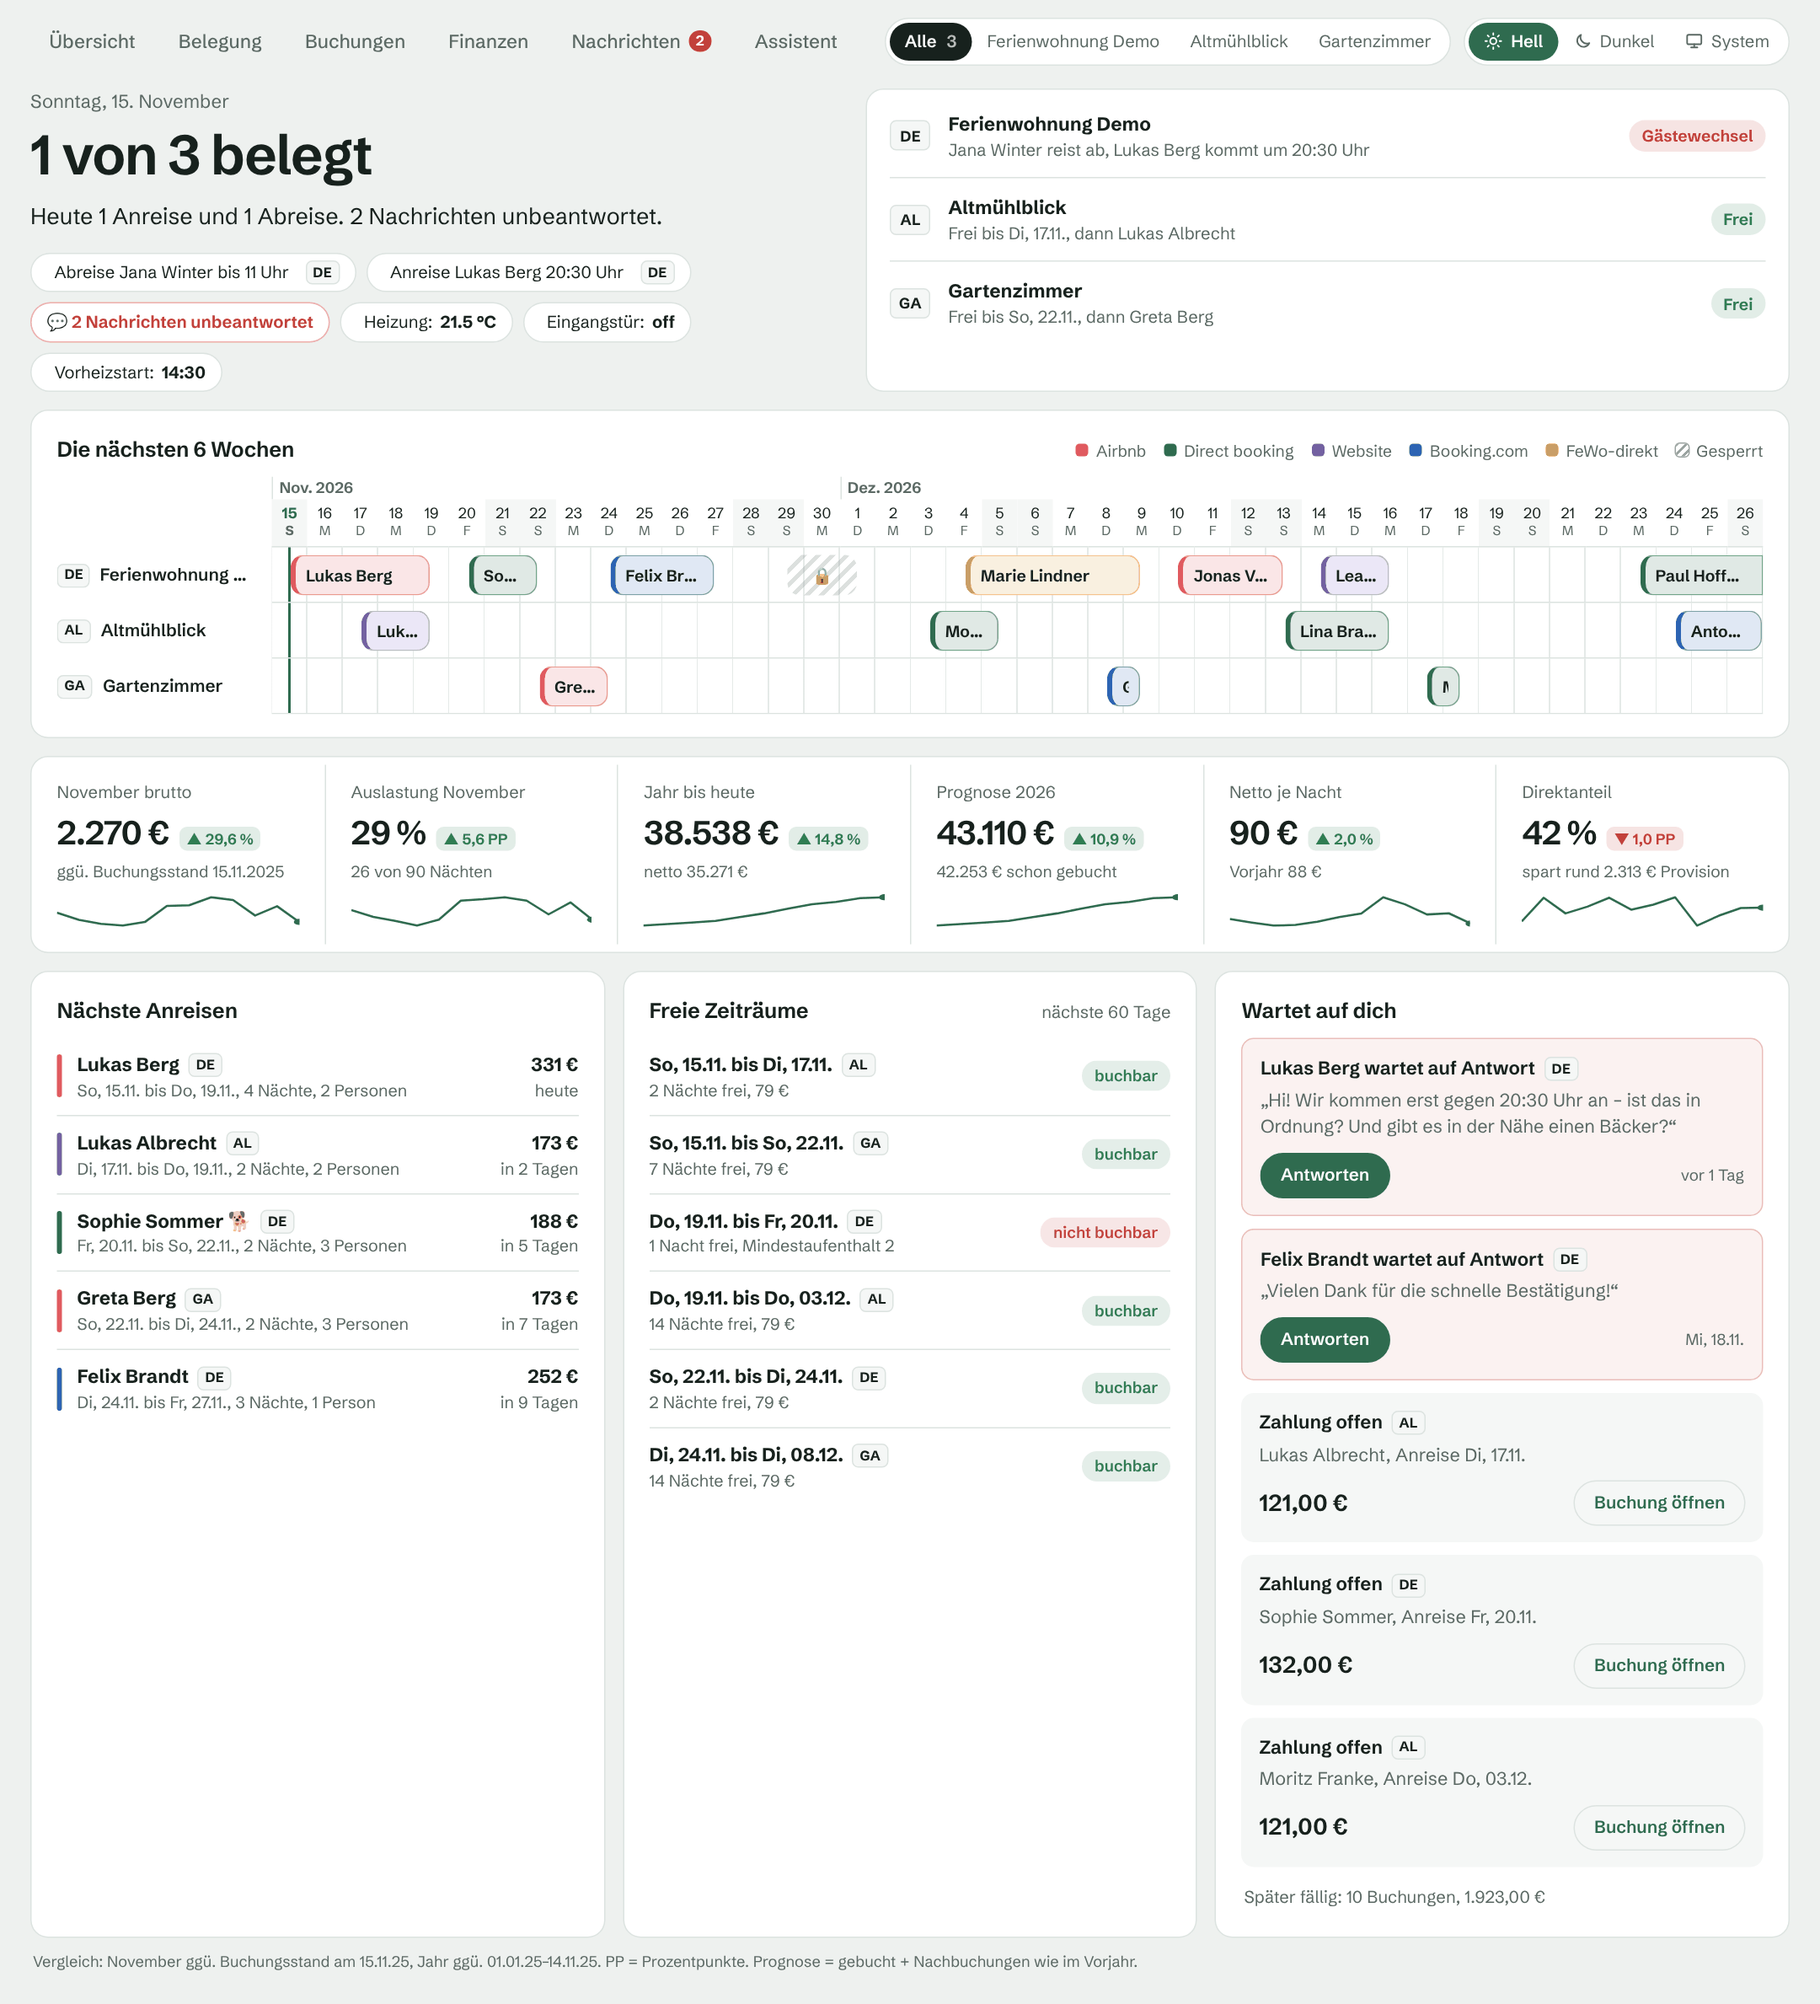
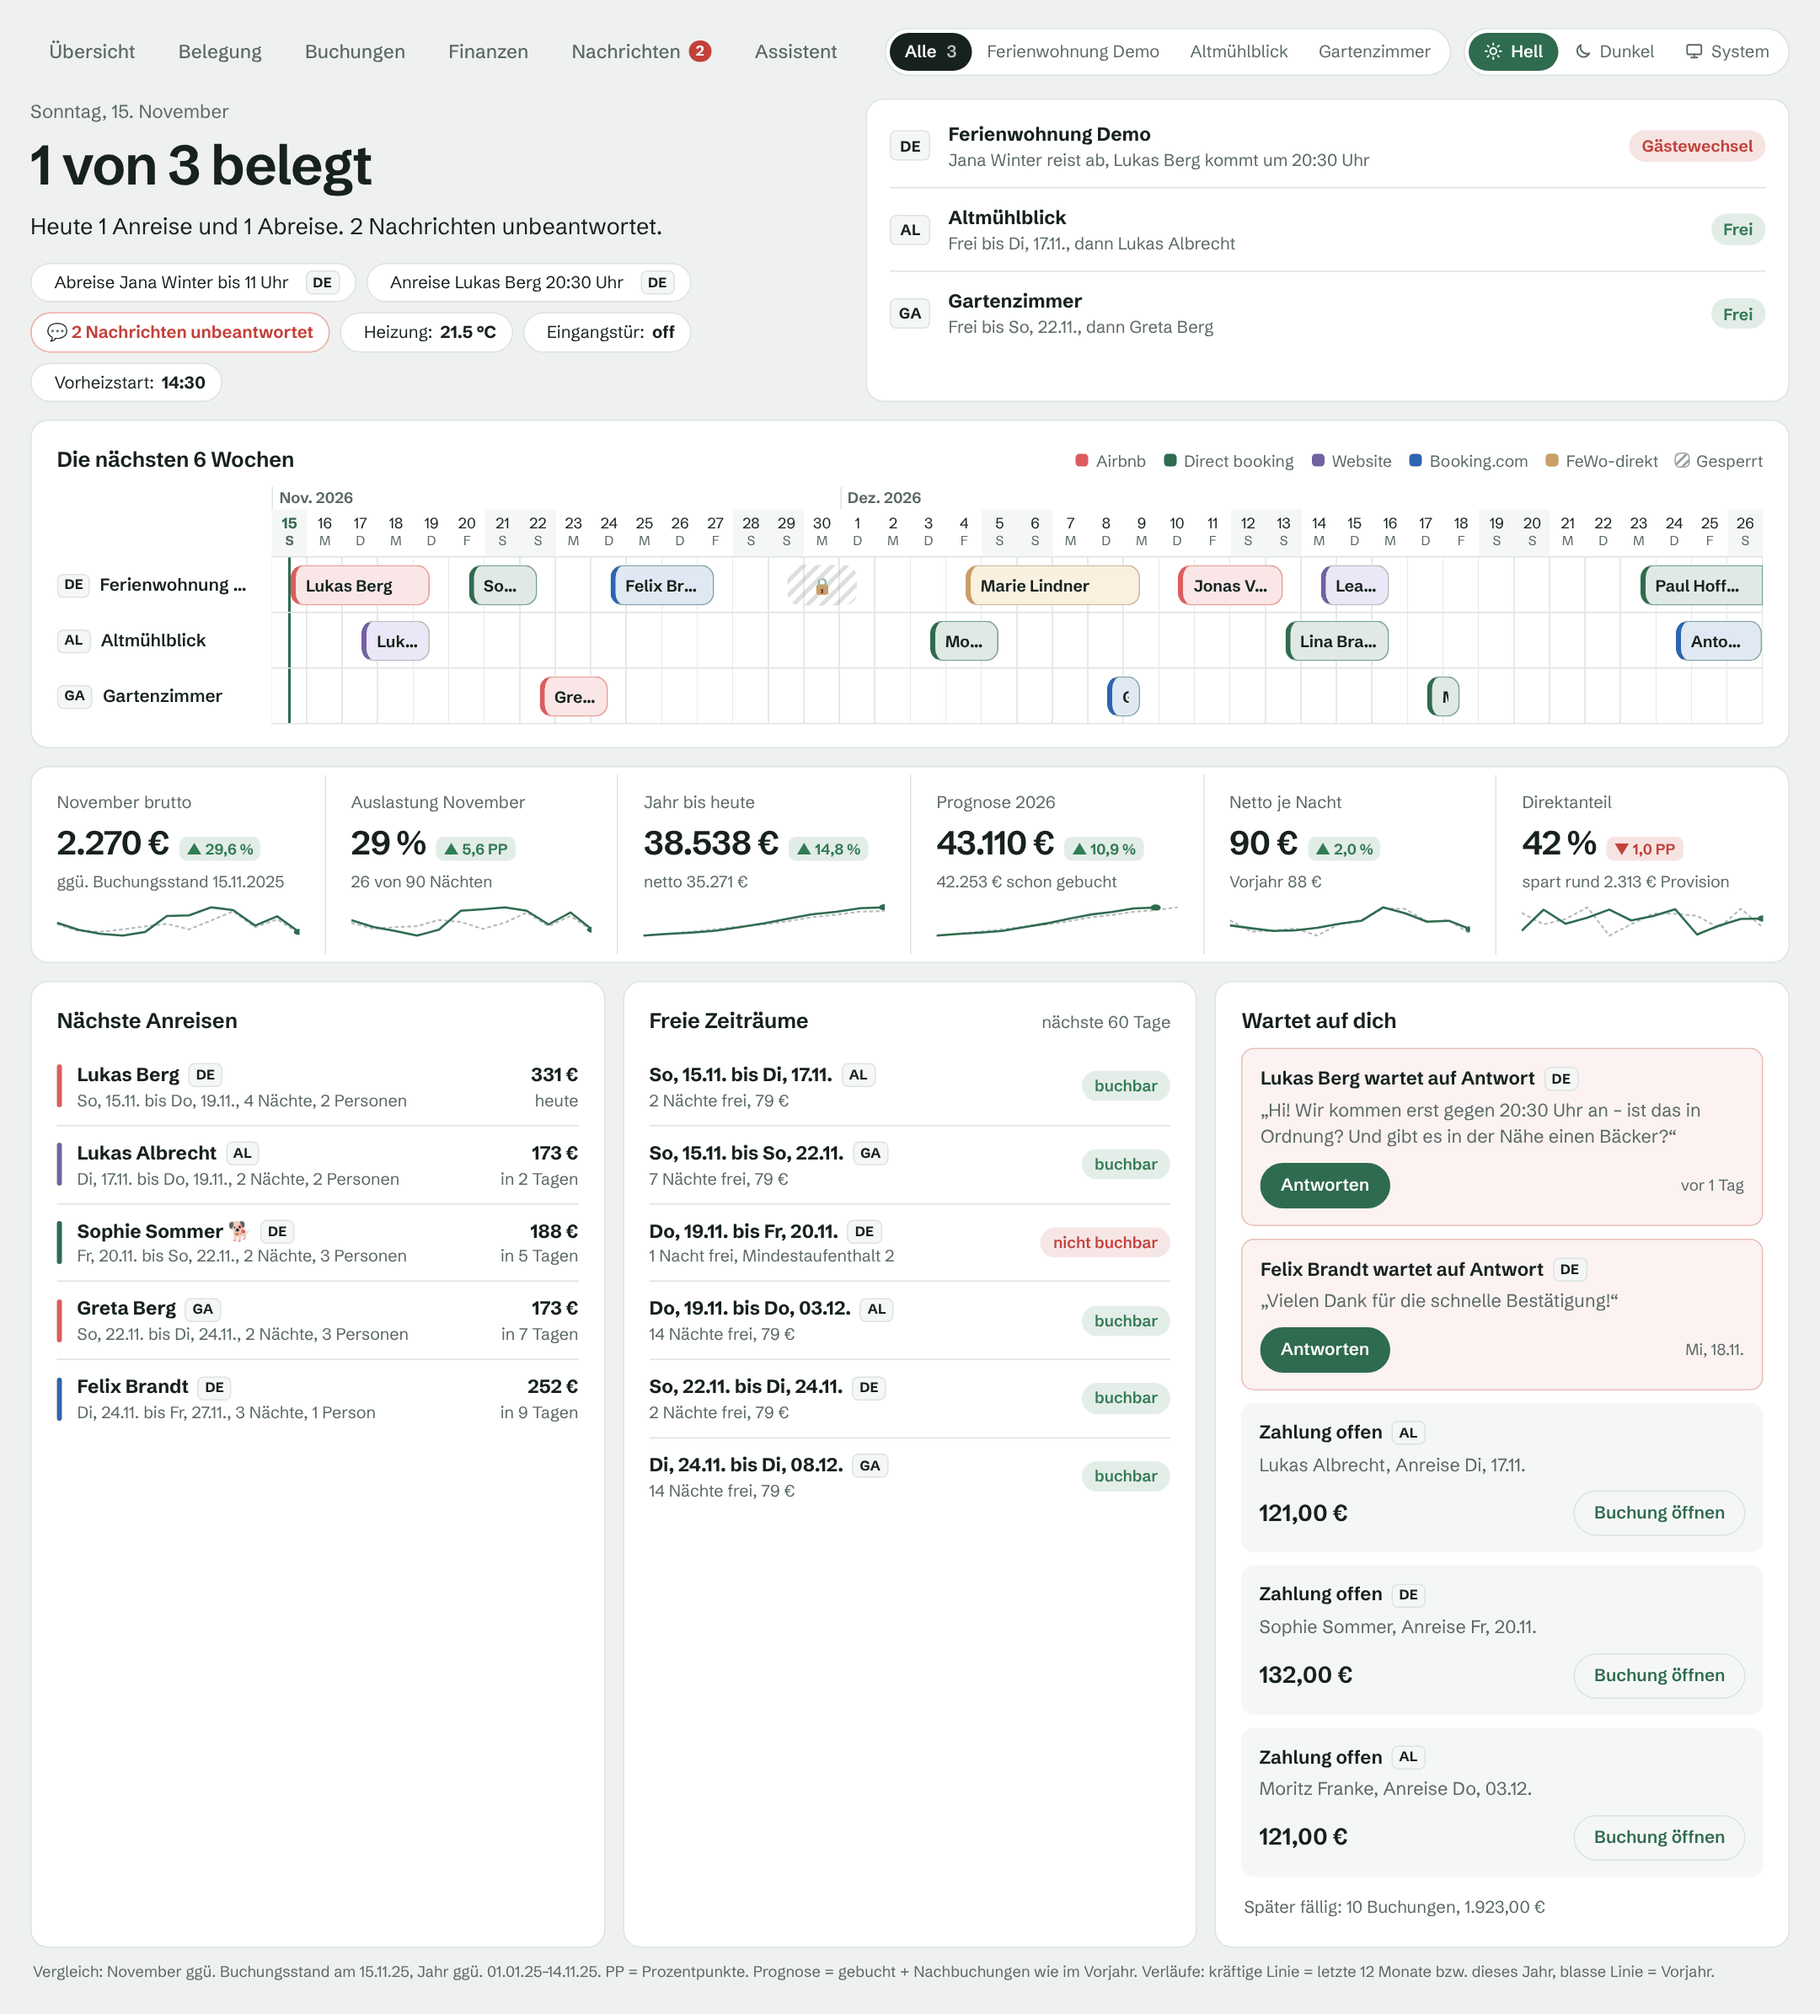
v1.15.2: Vergleichslinie Vorjahr in den Kennzahl-Grafiken
Claude-Session: https://claude.ai/code/session_01FCC4YXYuujh8dCQ4MKyKno

diff --git a/custom_components/smoobu/www/smoobu-cards.js b/custom_components/smoobu/www/smoobu-cards.js
@@ -21,7 +21,7 @@
  * der Ausgabe maskiert (esc), damit kein fremdes HTML ausgeführt wird.
  */
 
-const SMOOBU_CARDS_VERSION = "1.15.1";
+const SMOOBU_CARDS_VERSION = "1.15.2";
 
 // ---------------------------------------------------------------------------
 // Texte (Deutsch; Englisch für HA-Oberflächen in anderer Sprache)
@@ -576,17 +576,23 @@ const plural = (n, one, many) => `${num(n)} ${n === 1 ? one : many}`;
 const daysWord = (n) => (n === 0 ? t("heute") : n === 1 ? t("morgen") : `in ${n} ${t("Tagen")}`);
 
 // Verlauf als kleine Linie (12 Werte); leer bei zu wenig Daten
-function sparkline(values) {
-  const v = (values || []).map((x) => (x === null || x === undefined || isNaN(x) ? null : Number(x)));
-  const pts = v.map((x, i) => [i, x]).filter(([, x]) => x !== null);
-  if (pts.length < 2) return `<div class="spark"></div>`;
+// Verlauf als kleine Linie (v1.15.2: optional mit blasser Vergleichslinie, z. B. Vorjahr).
+// Beide Linien teilen sich Skala und Zeitachse (Länge = längere Reihe), damit die Lage vergleichbar ist.
+function sparkline(values, compare = null) {
+  const clean = (a) => (a || []).map((x) => (x === null || x === undefined || isNaN(x) ? null : Number(x)));
+  const v = clean(values), c = clean(compare);
+  const n = Math.max(v.length, c.length);
+  const all = [...v, ...c].filter((x) => x !== null);
+  if (v.filter((x) => x !== null).length < 2 || n < 2) return `<div class="spark"></div>`;
   const W = 120, H = 30;
-  const lo = Math.min(...pts.map((p) => p[1])), hi = Math.max(...pts.map((p) => p[1]));
-  const xy = pts.map(([i, x]) => [(i / (v.length - 1)) * W, H - 3 - ((x - lo) / (hi - lo || 1)) * (H - 6)]);
-  const [lx, ly] = xy[xy.length - 1];
-  return `<svg class="spark" viewBox="0 0 ${W} ${H}" preserveAspectRatio="none" aria-hidden="true">
-    <polyline points="${xy.map((p) => p.map((n) => n.toFixed(1)).join(",")).join(" ")}"/>
-    <circle cx="${lx.toFixed(1)}" cy="${ly.toFixed(1)}" r="2.6"/></svg>`;
+  const lo = Math.min(...all), hi = Math.max(...all);
+  const pt = (x, i) => [(i / (n - 1)) * W, H - 3 - ((x - lo) / (hi - lo || 1)) * (H - 6)];
+  const line = (a) => a.map((x, i) => (x === null ? null : pt(x, i))).filter(Boolean).map((p) => p.map((q) => q.toFixed(1)).join(",")).join(" ");
+  const last = v.map((x, i) => [x, i]).filter(([x]) => x !== null).pop();
+  const [lx, ly] = pt(last[0], last[1]);
+  const cmp = c.filter((x) => x !== null).length >= 2 ? `<polyline class="cmp" points="${line(c)}"/>` : "";
+  return `<svg class="spark" viewBox="0 0 ${W} ${H}" preserveAspectRatio="none" aria-hidden="true">${cmp}
+    <polyline points="${line(v)}"/><circle cx="${lx.toFixed(1)}" cy="${ly.toFixed(1)}" r="2.6"/></svg>`;
 }
 
 // Status einer Wohnung heute → kurze, präzise Sätze für den Kopf
@@ -713,6 +719,7 @@ class SmoobuOverviewCard extends SmoobuCard {
     .spark { width: 100%; height: 28px; margin-top: 8px; display: block; }
     .spark polyline { fill: none; stroke: var(--sm-accent); stroke-width: 1.7; vector-effect: non-scaling-stroke; stroke-linejoin: round; }
     .spark circle { fill: var(--sm-accent); }
+    .spark polyline.cmp { stroke: var(--sm-muted); stroke-opacity: .45; stroke-width: 1.4; stroke-dasharray: 3 2; }
     .three { display: grid; grid-template-columns: repeat(3, minmax(0, 1fr)); gap: var(--sm-gap); }
     @media (max-width: 1100px) { .three { grid-template-columns: 1fr 1fr; } }
     @media (max-width: 700px) { .three { grid-template-columns: 1fr; } }
@@ -745,7 +752,7 @@ class SmoobuOverviewCard extends SmoobuCard {
     const [month, ytd, last12, prevYear, list, ...rates] = await Promise.all([
       this.store.ws("smoobu/analytics", { ...tg, period: "monat", compare: "vorjahr_stand" }),
       this.store.ws("smoobu/analytics", { ...tg, period: "jahr_bis_heute", compare: "vorjahr" }),
-      this.store.ws("smoobu/analytics", { ...tg, start: iso(addMonths(m0, -11)), end: iso(addMonths(m0, 1)), compare: "kein" }),
+      this.store.ws("smoobu/analytics", { ...tg, start: iso(addMonths(m0, -11)), end: iso(addMonths(m0, 1)), compare: "vorjahr" }),
       this.store.ws("smoobu/analytics", { ...tg, period: "vorjahr", compare: "kein" }).catch(() => null),
       this.store.ws("smoobu/bookings", { ...tg, start: iso(addDays(D(today), -1)), end: iso(addDays(D(today), 180)) }),
       ...apts.map((w) => this.store.ws("smoobu/rates", { ...tg, apartment_id: w.apartment_id, start: today, end: rateEnd })
@@ -896,20 +903,29 @@ class SmoobuOverviewCard extends SmoobuCard {
   kpis({ apt, apts, today, month, ytd, last12, prevYear }) {
     const cur = apt.currency;
     const units = apts.length;
-    const r = last12.reihe || { labels: [], brutto: [], netto: [], naechte: [], kanaele: {} };
+    const empty = { labels: [], brutto: [], netto: [], naechte: [], kanaele: {} };
     const dim = (lab) => { const [y, m] = lab.split("-").map(Number); return new Date(y, m, 0).getDate(); };
-    const occ = r.labels.map((lab, i) => (r.naechte[i] / (dim(lab) * units)) * 100);
-    const npn = r.labels.map((_, i) => (r.naechte[i] ? r.netto[i] / r.naechte[i] : null));
-    const groups = Object.fromEntries(Object.entries(last12.kanaele || {}).map(([k, v]) => [k, v.gruppe]));
-    const direct = r.labels.map((_, i) => {
-      const tot = r.brutto[i];
-      if (!tot) return null;
-      const dsum = Object.entries(r.kanaele).reduce((a, [k, vals]) => a + (groups[k] === "Direkt" ? vals[i] || 0 : 0), 0);
-      return (dsum / tot) * 100;
+    const groups = Object.fromEntries([...Object.entries(last12.vergleich?.kanaele || {}), ...Object.entries(last12.kanaele || {})]
+      .map(([k, v]) => [k, v.gruppe]));
+    // Monatsreihe → Auslastung, Netto je Nacht, Direktanteil (gleiche Rechnung für Ist und Vorjahr)
+    const derive = (r) => ({
+      brutto: r.brutto,
+      occ: r.labels.map((lab, i) => (r.naechte[i] / (dim(lab) * units)) * 100),
+      npn: r.labels.map((_, i) => (r.naechte[i] ? r.netto[i] / r.naechte[i] : null)),
+      direct: r.labels.map((_, i) => {
+        const tot = r.brutto[i];
+        if (!tot) return null;
+        return (Object.entries(r.kanaele).reduce((a, [k, vals]) => a + (groups[k] === "Direkt" ? vals[i] || 0 : 0), 0) / tot) * 100;
+      }),
     });
-    const yr = ytd.reihe || { brutto: [] };
-    let acc = 0;
-    const cum = yr.brutto.map((v) => (acc += v));
+    const cumul = (a) => { let s = 0; return (a || []).map((v) => (s += v || 0)); };
+    const now = derive(last12.reihe || empty);
+    const prev = derive(last12.vergleich?.reihe || empty);
+    // Jahr bis heute: kumuliert ggü. gleichem Zeitraum Vorjahr; Prognose: ggü. ganzem Vorjahr (wohin es lief)
+    const cum = cumul(ytd.reihe?.brutto);
+    const cumPrev = cumul(ytd.vergleich?.reihe?.brutto);
+    const cumPrevYear = cumul(prevYear?.reihe?.brutto);
+    const monthly = (ytd.reihe?.einheit || "monat") === "monat";
     const chans = Object.values(ytd.kanaele || {});
     const portals = chans.filter((v) => v.gruppe === "Portal");
     const pb = portals.reduce((a, v) => a + v.brutto, 0), pk = portals.reduce((a, v) => a + v.kosten, 0);
@@ -919,18 +935,18 @@ class SmoobuOverviewCard extends SmoobuCard {
     const pyTotal = prevYear?.brutto;
     const progDelta = pyTotal ? ((prog.prognose - pyTotal) / pyTotal) * 100 : null;
     const year = today.slice(0, 4);
-    const k = (l, v, dlt, s, sp) => `<div class="kpi"><div class="kl">${l}</div><div class="kv">${v}${dlt}</div><div class="ks">${s}</div>${sparkline(sp)}</div>`;
+    const k = (l, v, dlt, s, sp, cmp) => `<div class="kpi"><div class="kl">${l}</div><div class="kv">${v}${dlt}</div><div class="ks">${s}</div>${sparkline(sp, cmp)}</div>`;
     return `<section class="kpis">
       ${k(`${monthName(today)} ${t("brutto")}`, money(month.brutto, cur), delta(month.veraenderung_prozent?.brutto),
-        `${t("ggü. Buchungsstand")} ${fdate(month.stichtag_vergleich, { day: "2-digit", month: "2-digit", year: "numeric" })}`, r.brutto)}
+        `${t("ggü. Buchungsstand")} ${fdate(month.stichtag_vergleich, { day: "2-digit", month: "2-digit", year: "numeric" })}`, now.brutto, prev.brutto)}
       ${k(`${t("Auslastung")} ${monthName(today)}`, pct(month.auslastung_prozent, 0), delta(month.veraenderung_punkte?.auslastung_prozent, "pp"),
-        `${num(month.naechte)} von ${num((month.tage || 30) * units)} ${t("Nächten")}`, occ)}
-      ${k(t("Jahr bis heute"), money(ytd.brutto, cur), delta(ytd.veraenderung_prozent?.brutto), `${t("netto")} ${money(ytd.netto, cur)}`, cum)}
-      ${k(`${t("Prognose")} ${year}`, money(prog.prognose, cur), delta(progDelta), `${money(prog.gebucht, cur)} ${t("schon gebucht")}`, cum)}
+        `${num(month.naechte)} von ${num((month.tage || 30) * units)} ${t("Nächten")}`, now.occ, prev.occ)}
+      ${k(t("Jahr bis heute"), money(ytd.brutto, cur), delta(ytd.veraenderung_prozent?.brutto), `${t("netto")} ${money(ytd.netto, cur)}`, cum, cumPrev)}
+      ${k(`${t("Prognose")} ${year}`, money(prog.prognose, cur), delta(progDelta), `${money(prog.gebucht, cur)} ${t("schon gebucht")}`, cum, monthly ? cumPrevYear : null)}
       ${k(t("Netto je Nacht"), money(ytd.netto_pro_nacht, cur), delta(ytd.veraenderung_prozent?.netto_pro_nacht),
-        `${t("Vorjahr")} ${money(ytd.vergleich?.netto_pro_nacht, cur)}`, npn)}
+        `${t("Vorjahr")} ${money(ytd.vergleich?.netto_pro_nacht, cur)}`, now.npn, prev.npn)}
       ${k(t("Direktanteil"), pct(ytd.direktanteil_prozent, 0), delta(ytd.veraenderung_punkte?.direktanteil_prozent, "pp"),
-        saved ? `${t("spart rund")} ${money(saved, cur)} ${t("Provision")}` : t("Anteil am Umsatz"), direct)}
+        saved ? `${t("spart rund")} ${money(saved, cur)} ${t("Provision")}` : t("Anteil am Umsatz"), now.direct, prev.direct)}
     </section>`;
   }
 
@@ -988,7 +1004,7 @@ class SmoobuOverviewCard extends SmoobuCard {
     return `${this.multi ? this.heroMulti(d) : this.heroSingle(d)}${this.band(d)}${this.kpis(d)}${this.lists(d)}
       <p class="foot">${t("Vergleich")}: ${monthName(today)} ${t("ggü. Buchungsstand am")} ${fdate(month.stichtag_vergleich)},
         ${t("Jahr ggü.")} ${fdate(ytd.vergleich?.von)}–${fdate(iso(addDays(D(ytd.vergleich?.bis || today), -1)))}. ${t("PP = Prozentpunkte")}.
-        ${t("Prognose")} = ${t("gebucht + Nachbuchungen wie im Vorjahr")}.</p>`;
+        ${t("Prognose")} = ${t("gebucht + Nachbuchungen wie im Vorjahr")}. ${t("Verläufe: kräftige Linie = letzte 12 Monate bzw. dieses Jahr, blasse Linie = Vorjahr.")}</p>`;
   }
   bind(root) {
     root.querySelectorAll("[data-id]").forEach((el) => el.addEventListener("click", (e) => { e.stopPropagation(); this.openBooking(Number(el.dataset.id)); }));

diff --git a/CHANGELOG.md b/CHANGELOG.md
@@ -6,6 +6,14 @@ Format per version: German, then English. Versioning follows [SemVer](https://se
 Ein Release wird automatisch erstellt, sobald die Version in `custom_components/smoobu/manifest.json` erhöht wird.
 A release is created automatically as soon as the version in `custom_components/smoobu/manifest.json` is increased.
 
+## 1.15.2 – 2026-11-15
+
+**Deutsch**
+- Übersicht: Jede Kennzahl-Grafik zeigt zusätzlich eine **blasse Vergleichslinie** (Vorjahr): Monat brutto, Auslastung, Netto je Nacht und Direktanteil je Monat der letzten 12 Monate gegen dieselben Monate im Vorjahr; „Jahr bis heute“ kumuliert gegen den gleichen Zeitraum im Vorjahr; „Prognose“ gegen den kumulierten Verlauf des ganzen Vorjahres. Gemeinsame Skala, Erklärung in der Fußzeile
+
+**English**
+- Overview: every key-figure chart now shows a **faint comparison line** (previous year) on a shared scale; "year to date" against the same period last year, "forecast" against the whole previous year
+
 ## 1.15.1 – 2026-11-15
 
 **Deutsch**
